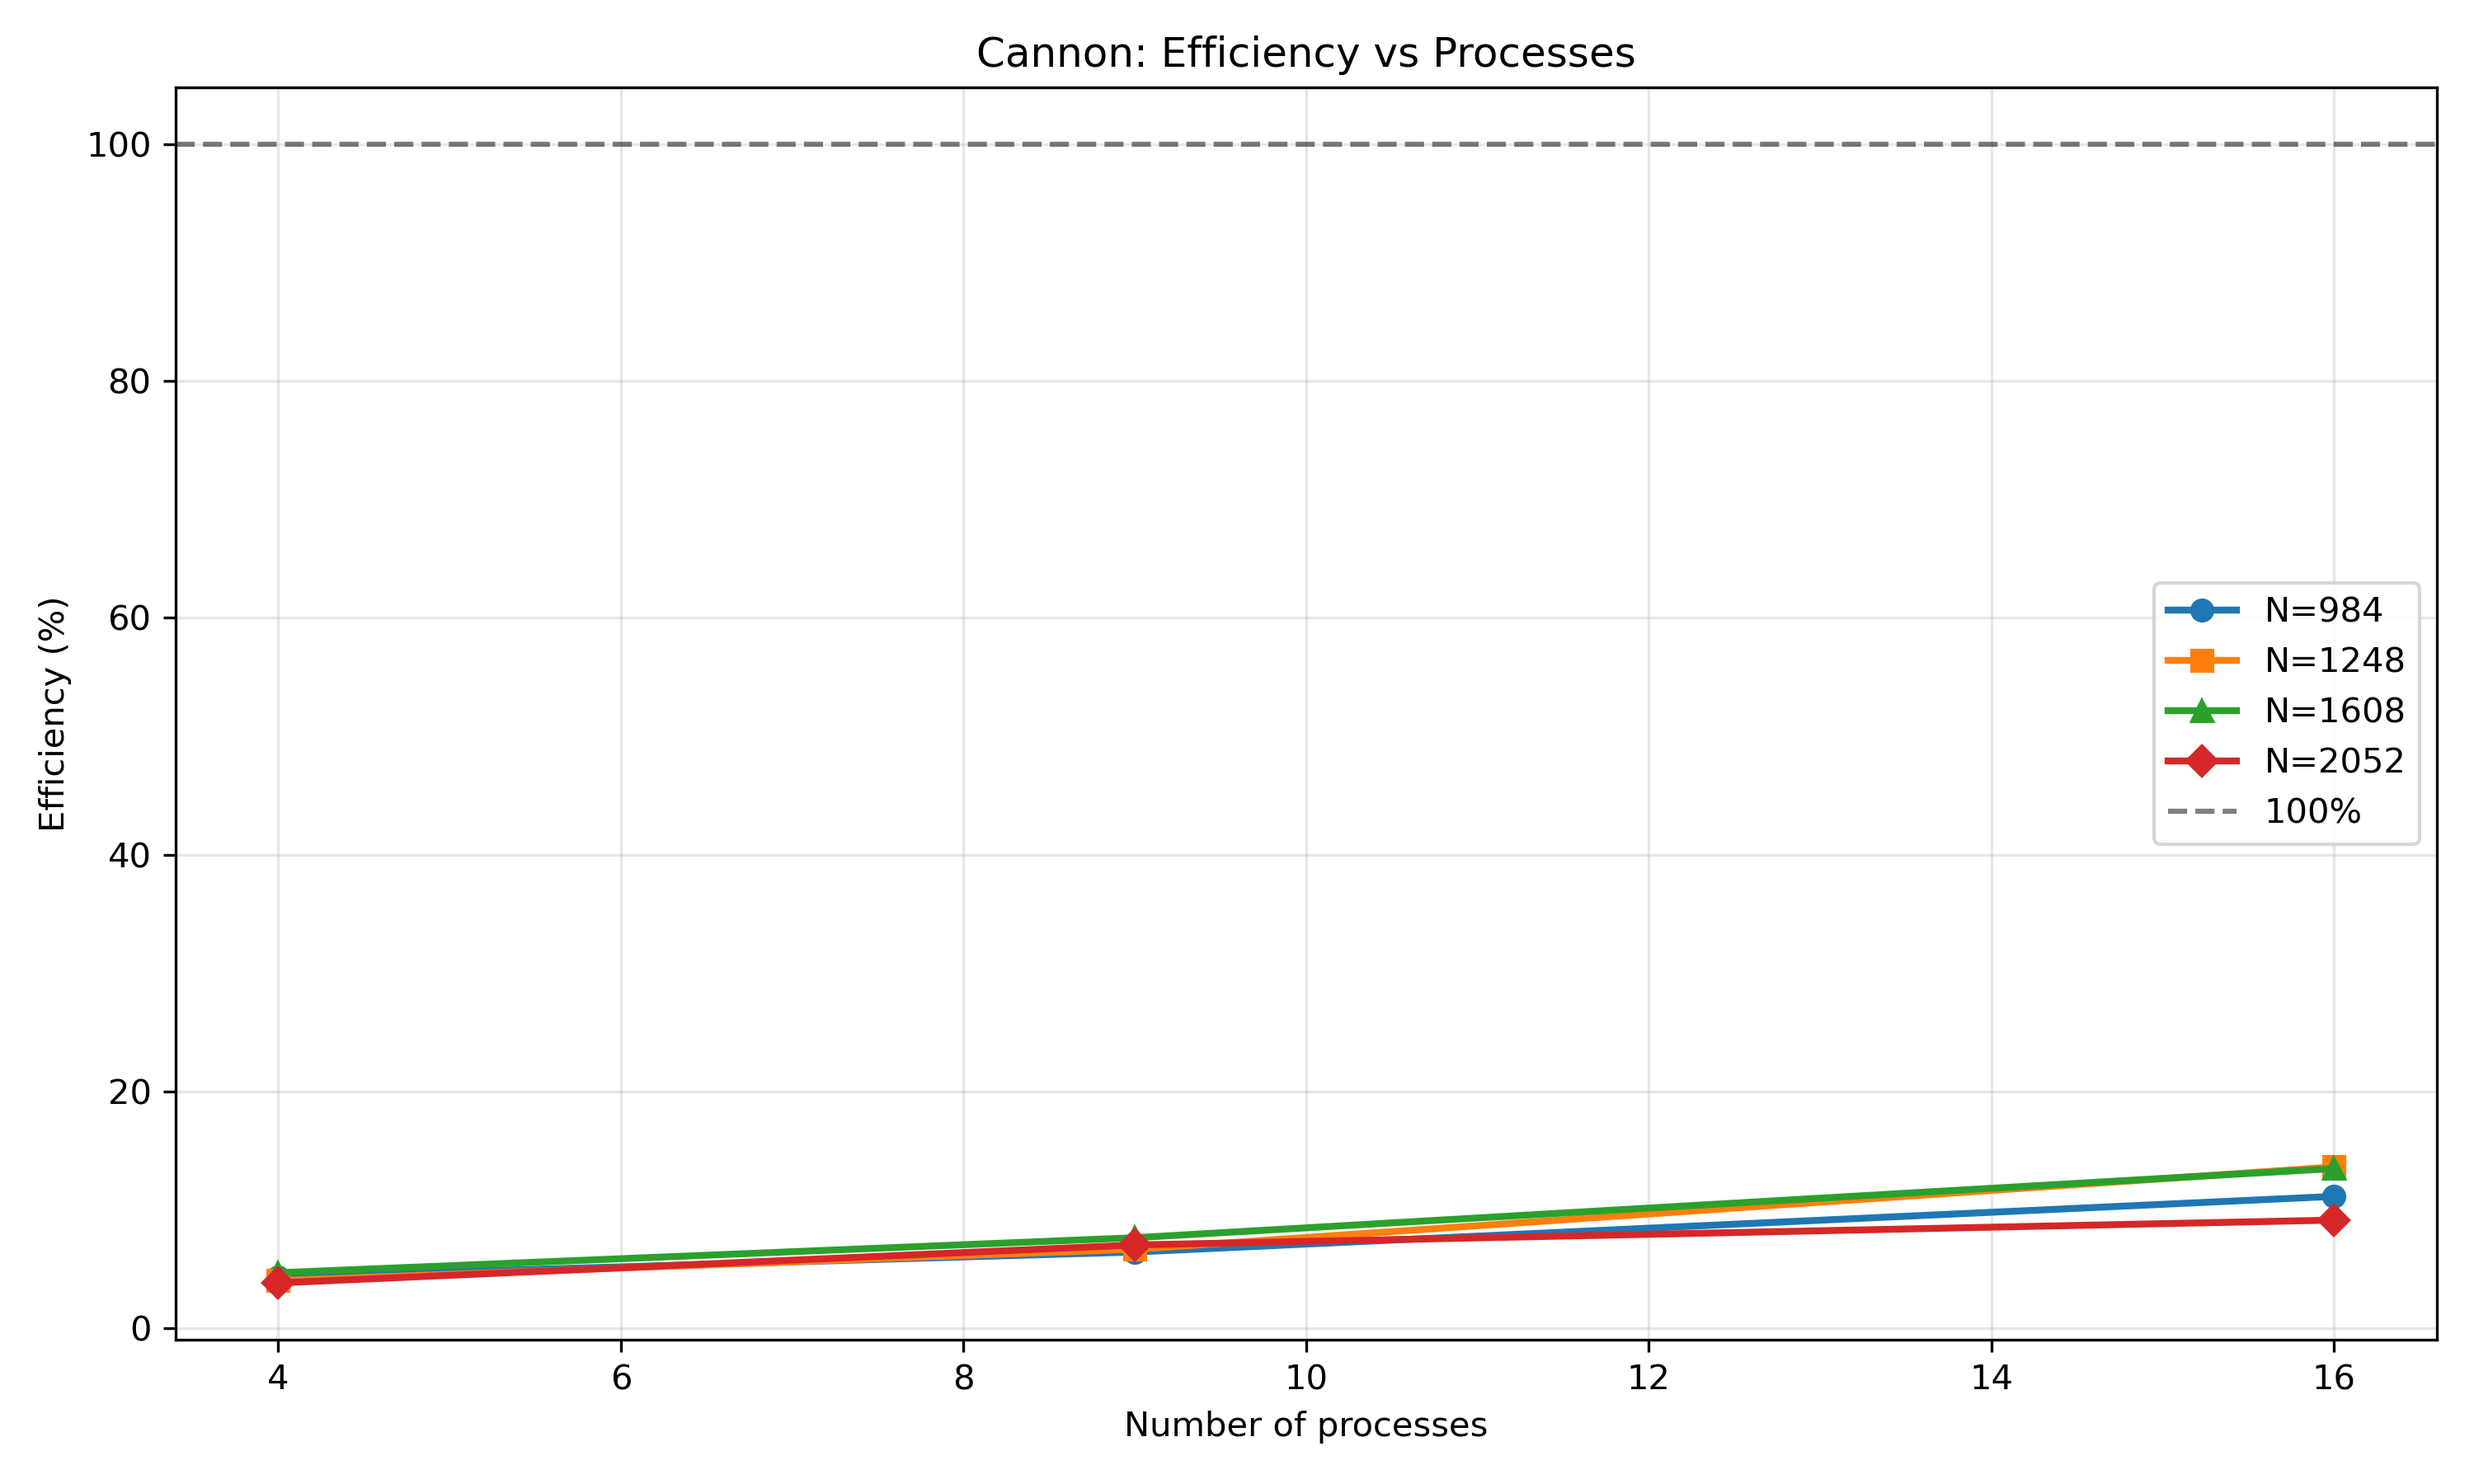
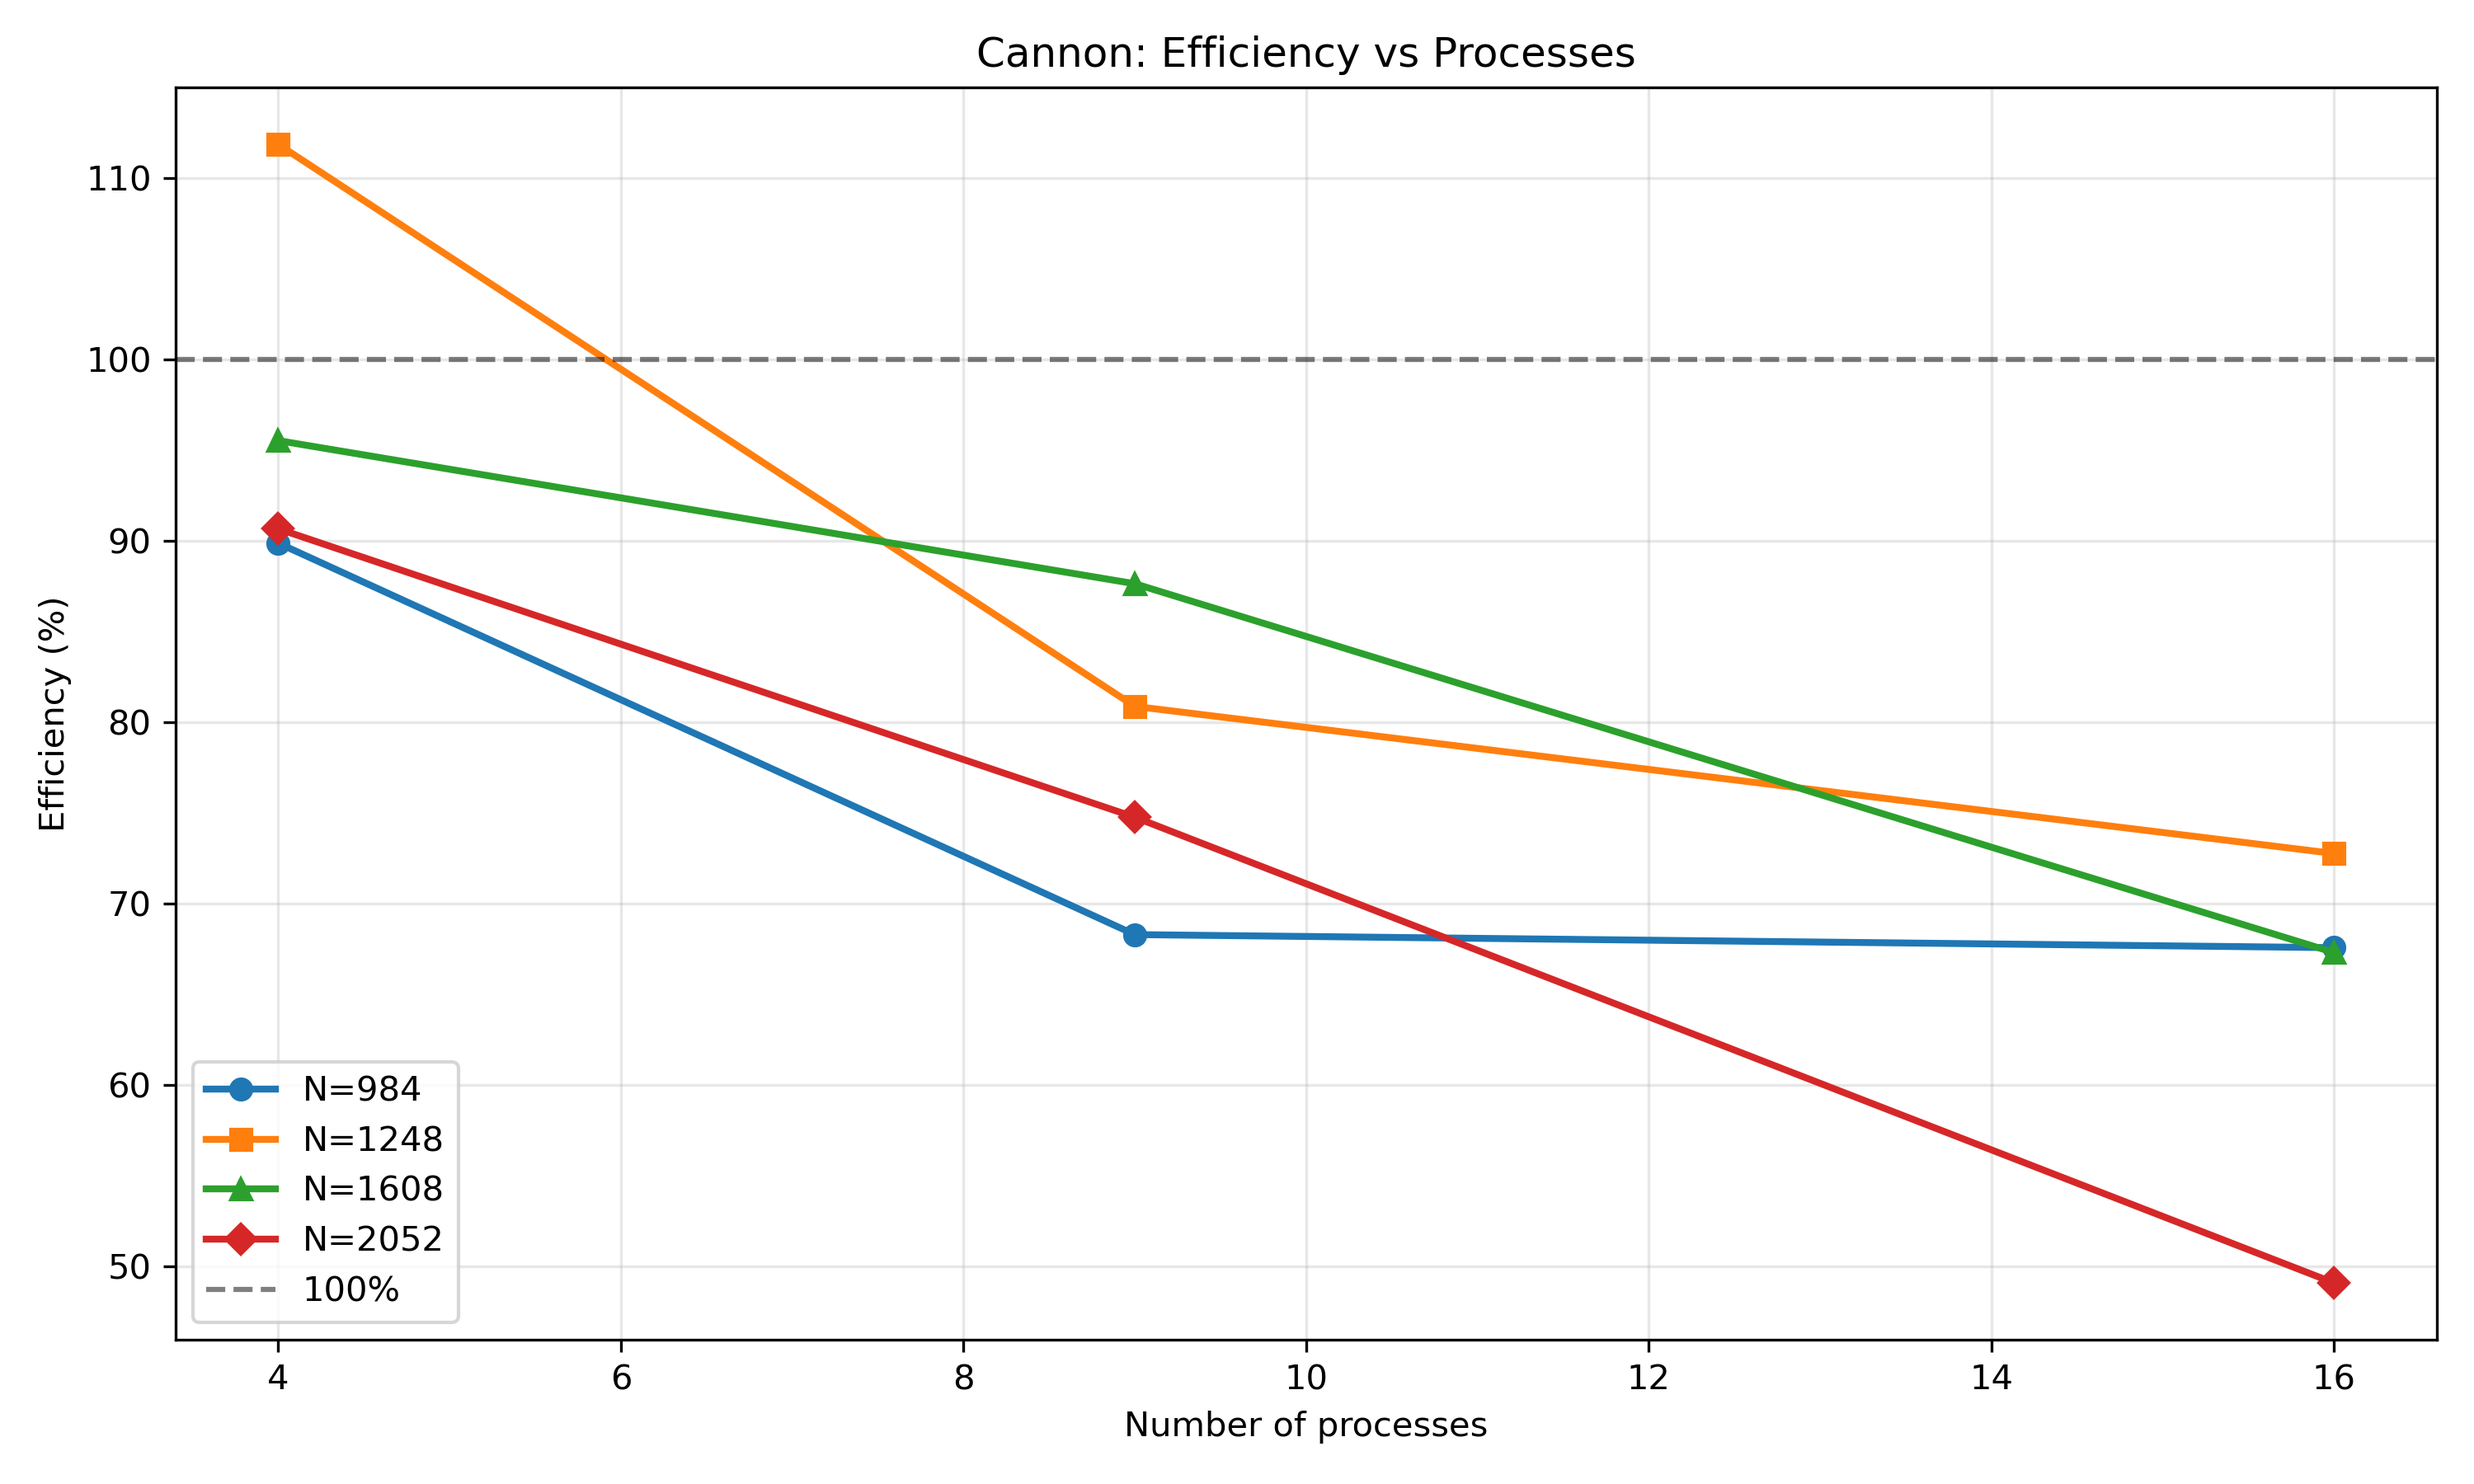
Update analysis

diff --git a/scripts/analyze_results_cannon.py b/scripts/analyze_results_cannon.py
@@ -1,12 +1,6 @@
 #!/usr/bin/env python3
 """
 Analysis and plotting for Cannon's algorithm benchmark results.
-
-Reads results from results/cannon_results/cannon_results.csv and generates:
- - execution_time_vs_size.png
- - speedup_vs_processes.png
- - efficiency_vs_processes.png
- - statistics.txt
 """
 import os
 import csv
@@ -35,32 +29,41 @@ def load_results():
 
     with open(RESULTS_FILE, 'r') as f:
         reader = csv.DictReader(f)
-        for row in reader:
+        for row_idx, row in enumerate(reader, start=1):
             try:
-                p = int(row['num_processes'])
-                n = int(row['matrix_size'])
-                t = float(row['avg_time'])
+                p = int(row.get('num_processes', '0'))
+                n = int(row.get('matrix_size', '0'))
+                t = float(row.get('avg_time', '0'))
             except Exception:
+                print(f"Warning: skipping malformed CSV row #{row_idx}: {row}")
                 continue
 
             data_time[n][p].append(t)
 
-            try:
-                s = float(row['speedup']) if row.get('speedup') else None
-                if s is not None:
+            s_val = row.get('speedup')
+            if s_val and s_val.strip():
+                try:
+                    s = float(s_val)
                     data_speedup[n][p].append(s)
-            except Exception:
-                pass
+                except Exception:
+                    pass
 
-            try:
-                e = float(row['efficiency']) if row.get('efficiency') else None
-                if e is not None:
+            e_val = row.get('efficiency')
+            if e_val and e_val.strip():
+                try:
+                    e = float(e_val)
                     data_eff[n][p].append(e)
-            except Exception:
-                pass
+                except Exception:
+                    pass
 
             ch = row.get('check', '').strip()
             checks[n][p].append(ch)
+
+            if p == 1:
+                if not data_speedup[n][p]:
+                    data_speedup[n][p].append(1.0)
+                if not data_eff[n][p]:
+                    data_eff[n][p].append(100.0)
 
     return data_time, data_speedup, data_eff, checks
 
@@ -95,7 +98,7 @@ def plot_speedup_vs_processes(data_speedup):
         if candidates:
             characteristic_sizes.append(candidates[0])
     if not characteristic_sizes:
-        characteristic_sizes = sizes_all[-4:]
+        characteristic_sizes = sizes_all[-4:] if sizes_all else []
 
     markers = ['o','s','^','D','v','<','>','x']
     for i, n in enumerate(characteristic_sizes):
@@ -105,11 +108,9 @@ def plot_speedup_vs_processes(data_speedup):
         speedups = [np.mean(data_speedup[n][p]) for p in processes]
         plt.plot(processes, speedups, marker=markers[i%len(markers)], label=f'N={n}', linewidth=2)
 
-    if plt.gca().get_xlim()[1] < 1:
-        ideal_max = max([p for n in data_speedup for p in data_speedup[n].keys()] + [1])
-    else:
-        ideal_max = int(max([p for n in data_speedup for p in data_speedup[n].keys()] + [1]))
-    ideal = list(range(1, ideal_max+1))
+    all_ps = [p for n in data_speedup for p in data_speedup[n].keys()]
+    ideal_max = max(all_ps + [1])
+    ideal = list(range(1, int(ideal_max)+1))
     plt.plot(ideal, ideal, 'k--', label='Ideal', linewidth=1)
 
     plt.xlabel('Number of processes')
@@ -163,7 +164,11 @@ def print_and_save_statistics(data_time, data_speedup, data_eff, checks):
                     continue
                 avg_t = np.mean(times)
                 std_t = np.std(times)
-                line = f"  {p:3d} proc: {avg_t:.6f}s (±{std_t:.6f}s)"
+                if std_t > 0:
+                    time_part = f"{avg_t:.6f}s (±{std_t:.6f}s)"
+                else:
+                    time_part = f"{avg_t:.6f}s"
+                line = f"  {p:3d} proc: {time_part}"
                 sp_list = data_speedup[n].get(p, [])
                 ef_list = data_eff[n].get(p, [])
                 if sp_list and ef_list:

diff --git a/scripts/run_benchmark_cannon.py b/scripts/run_benchmark_cannon.py
@@ -47,7 +47,7 @@ def run_cannon(num_processes):
         print("ERROR: No executable found. Set CANNON_EXEC or put an executable in bin/ (e.g. bin/main or bin/pi_calculator).")
         return None
 
-    print(f"Running Cannon: {num_processes} processes, executable: {EXECUTABLE}")
+    print(f"Running Cannon: {num_processes} processes")
     cmd = ["mpirun"] + MPIRUN_OPTS.split() + ["-np", str(num_processes), EXECUTABLE, "3"]
 
     try:
@@ -74,11 +74,19 @@ def run_cannon(num_processes):
         try:
             n = int(parts[0])
             p = int(parts[1])
-            avg_time = float(parts[2])
-            speedup = float(parts[3])
-            efficiency = float(parts[4])
-            check = parts[5]
+            if len(parts) >= 7:
+                seq_time = float(parts[2])
+                avg_time = float(parts[3])
+                speedup = float(parts[4])
+                efficiency = float(parts[5])
+                check = parts[6]
+            else:
+                avg_time = float(parts[2])
+                speedup = float(parts[3]) if len(parts) > 3 else 0.0
+                efficiency = float(parts[4]) if len(parts) > 4 else 0.0
+                check = parts[5] if len(parts) > 5 else ''
         except Exception:
+            # malformed numeric conversion => skip
             continue
         parsed.append({
             'matrix_size': n,
@@ -139,19 +147,31 @@ def main():
 
             ts = datetime.now().isoformat()
             for entry in results:
+                if entry['processes'] == 1:
+                    speedup_str = "1.000000"
+                    efficiency_str = "100.000000"
+                else:
+                    speedup_str = f"{entry['speedup']:.6f}"
+                    efficiency_str = f"{entry['efficiency']:.6f}"
+
                 row = {
                     'timestamp': ts,
                     'num_processes': entry['processes'],
                     'matrix_size': entry['matrix_size'],
                     'avg_time': f"{entry['avg_time']:.6f}",
-                    'speedup': f"{entry['speedup']:.6f}",
-                    'efficiency': f"{entry['efficiency']:.6f}",
+                    'speedup': speedup_str,
+                    'efficiency': efficiency_str,
                     'check': entry['check']
                 }
                 writer.writerow(row)
                 csvfile.flush()
-                print(f"  N={entry['matrix_size']:5d} | P={entry['processes']:3d} | "
-                      f"Time={entry['avg_time']:.6f}s | S={entry['speedup']:.3f} | E={entry['efficiency']:.2f}% | {entry['check']}")
+                try:
+                    sp_display = float(speedup_str)
+                    ef_display = float(efficiency_str)
+                    print(f"  N={entry['matrix_size']:5d} | P={entry['processes']:3d} | "
+                          f"Time={entry['avg_time']:.6f}s | S={sp_display:.3f} | E={ef_display:.2f}% | {entry['check']}")
+                except Exception:
+                    print(f"  N={entry['matrix_size']:5d} | P={entry['processes']:3d} | Time={entry['avg_time']:.6f}s | {entry['check']}")
 
     print("\nBenchmark finished. CSV saved to:", RESULTS_FILE)
 

diff --git a/scripts/analyze_results_matrix.py b/scripts/analyze_results_matrix.py
@@ -1,13 +1,6 @@
 #!/usr/bin/env python3
 """
 Analysis script for matrix multiplication benchmark results.
-Generates graphs and statistical analysis.
-
-Changes applied:
- - Fixed syntax errors (unterminated f-strings).
- - Do not print "(±0.000000s)" when std == 0 (no repeats).
- - If speedup/efficiency for 1 process are missing in CSV, fill defaults (1.0 / 100.0).
- - Small robustness improvements on CSV parsing and reporting.
 """
 
 import os
@@ -64,7 +57,6 @@ def load_results():
             if processes not in data[algo][size]['efficiencies']:
                 data[algo][size]['efficiencies'][processes] = []
 
-            # Execution time
             try:
                 exec_time = float(row.get('execution_time', '0'))
                 data[algo][size]['execution_times'][processes].append(exec_time)
@@ -72,7 +64,6 @@ def load_results():
                 print(f"Warning: bad execution_time at row #{row_idx}: {row.get('execution_time')}")
                 continue
 
-            # Speedup & efficiency may be empty in CSV; try to parse if present
             sp_val = row.get('speedup')
             if sp_val and sp_val.strip():
                 try:
@@ -309,7 +300,6 @@ def print_statistics(data):
                             avg_time = np.mean(times)
                             std_time = np.std(times)
 
-                            # Only show ± if std_time > 0 (i.e. repeats exist)
                             if std_time > 0:
                                 time_str = f"{avg_time:.6f}s (±{std_time:.6f}s)"
                             else:

diff --git a/main.c b/main.c
@@ -5,7 +5,7 @@
 
 int requested_matrix_size = -1;
 
-int runTask(int taskNumber) {
+int runTask(const int taskNumber) {
     switch (taskNumber) {
         case 1:
             return runTask1();
@@ -40,7 +40,13 @@ int main(int argc, char *argv[]) {
         printf("Enter task number:\n1 - Finding PI\n2 - Matrix Multiplication\n3 - Cannon's Matrix Multiplication\n");
 
         while (selectedTask != 1) {
-            scanf("%d", &selectedTask);
+            const int scan_result = scanf("%d", &selectedTask);
+            if (scan_result != 1) {
+                printf("Error reading input. Please enter a number.\n");
+                while (getchar() != '\n');
+                continue;
+            }
+
             if (selectedTask == 1) {
                 printf("-------------Task %d---------------\n\n", selectedTask);
                 break;
